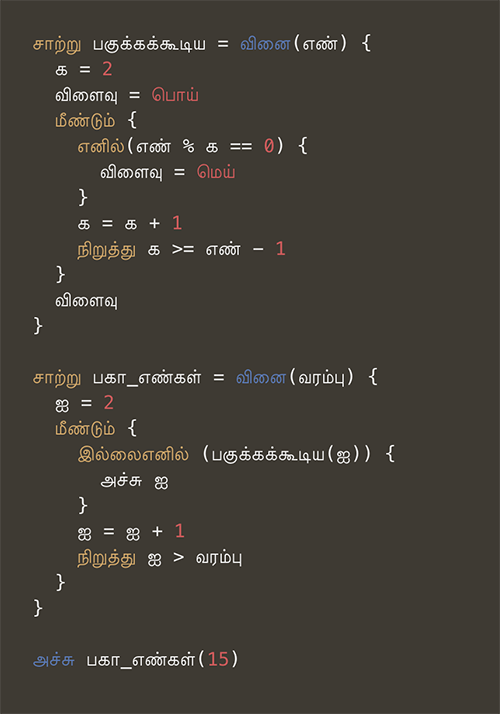
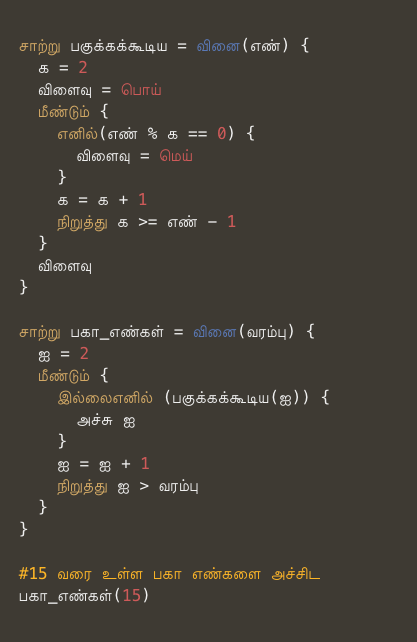
Add comments to example

diff --git a/lib/uyirmei.rb b/lib/uyirmei.rb
@@ -11,8 +11,7 @@ class UyirMeiLoader
     end
 
     def execute(file)
-      File.open(SRC,"w") { |f| f.puts [CORE_FILE, file].map{ |s| IO.read(s) }}
-      replace(SRC, 'பின்கொடு', 'return')
+      File.open(SRC,"w") { |f| f.puts [CORE_FILE, file].map{ |s| IO.read(s) }}      
       require "./#{SRC}"
       File.delete(SRC)
     end
